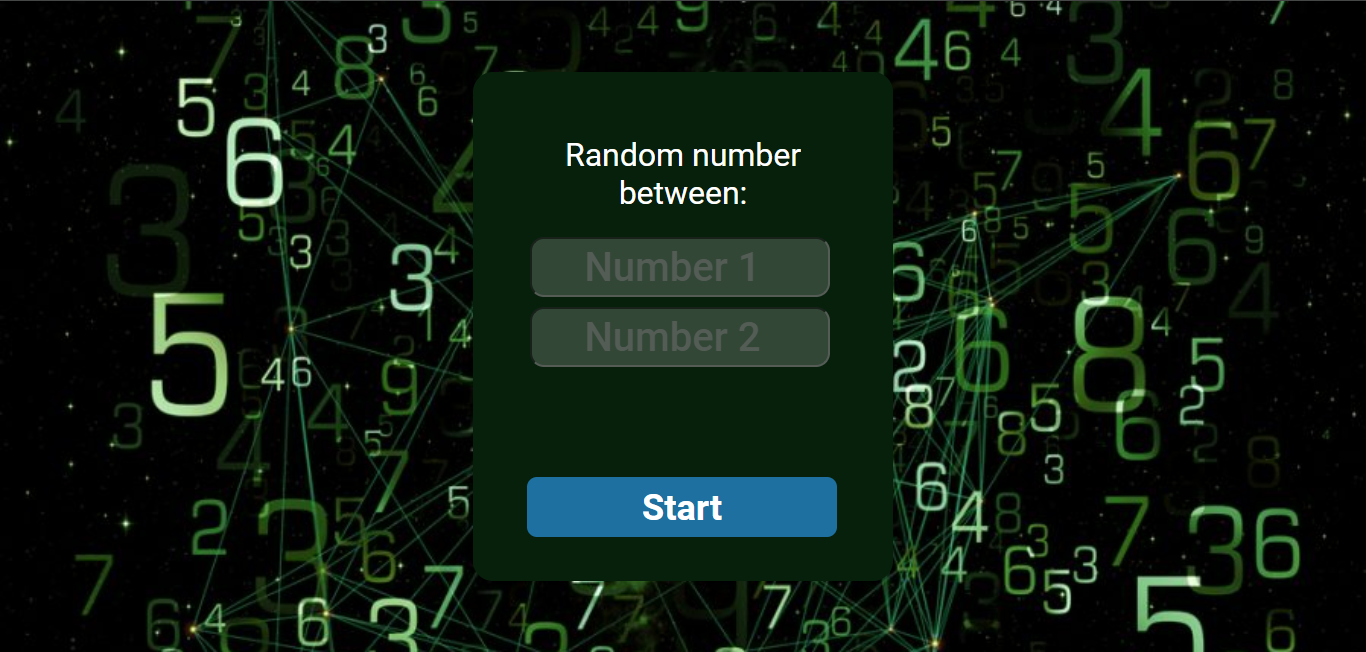
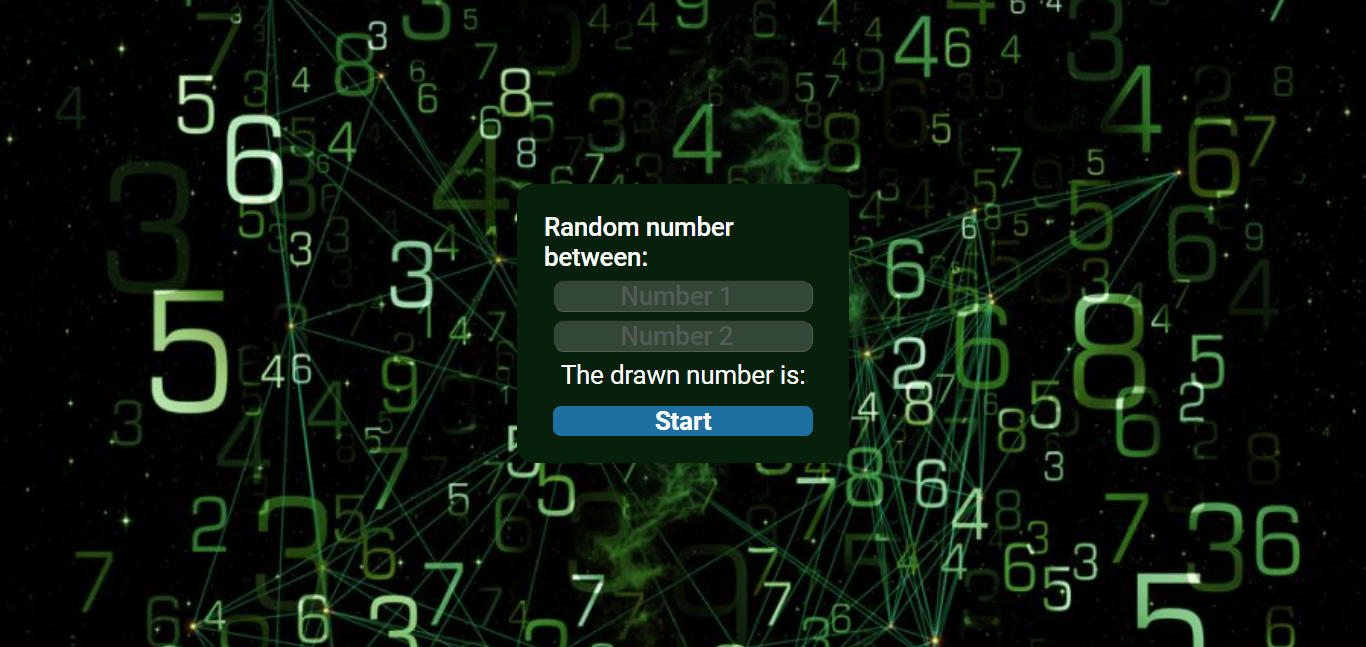
display-flex

diff --git a/styles.css b/styles.css
@@ -13,72 +13,56 @@ body {
     /* Evita a repetição da imagem */
     background-attachment: fixed;
     /* Fixa a imagem de fundo, impedindo que role com a página */
+    height: 100vh;
     display: flex;
-    align-items: center;
-    justify-content: center;
     flex-direction: column;
-    min-height: 100vh;
+    justify-content: center;
+    align-items: center;
+
 }
 
 main {
-    width: 420px;
     border-radius: 20px;
-    padding: 44px 24px;
-    display: block;
-    margin: 0 auto;
     background-color: #07200c;
+    display: flex;
+    flex-direction: column;
+    align-items: center;
+    padding: 2%;
+    gap: 10px;
+    width: 26em;
 }
 
 h1 {
-    font-size: normal;
-    font-weight: 400;
-    font-size: 32px;
-    line-height: 38px;
+    font-weight: 500;
     color: white;
-    text-align: center;
-    margin: 20px;
 }
 
 p {
-    height: 60px;
-    width: 300px;
-    font-weight: 500;
-    font-size: 40px;
-    margin: 5px 30px 5px;
-    text-align: center;
-    color: #1620a1;
+    font-weight: 400;
+    font-size: 2em;
+    color: white;
 }
 
 input {
     background: rgba(255, 255, 255, 0.25);
     border-radius: 14px;
-    height: 60px;
-    width: 300px;
     font-weight: 500;
-    font-size: 40px;
+    font-size: 2em;
     color: white;
     opacity: 0.7;
-    margin: 5px 33px;
     text-align: center;
-
-}
-
-.input-min {
-    margin-right: 62px;
+    width: 40vh;
 }
 
 button {
     background: #1d70a0;
     border-radius: 10px;
-    width: 310px;
-    height: 60px;
     color: white;
     font-weight: 700;
-    font-size: 36px;
+    font-size: 2em;
     border: none;
     cursor: pointer;
-    margin: 35px 30px 0px;
-    text-align: center;
+    width: 40vh
 }
 
 button:hover {

diff --git a/script.js b/script.js
@@ -1,15 +1,19 @@
-let p1 = document.querySelector('p')
+let p1 = document.querySelector('.p1')
 
-function generateNumber(){
-   
+function generateNumber() {
     const min = Math.ceil(document.querySelector(".input-min").value)
     const max = Math.floor(document.querySelector(".input-max").value)
 
-    if (max > min){
-        p1.innerHTML =`The drawn number is ${Math.floor(Math.random() * (max - min + 1)) + min}` ;
-    
-    }else {
-        alert("The minimum value must be LESS than the maximum value")
+    if (max > min) {
+        p1.innerHTML = Math.floor(Math.random() * (max - min + 1)) + min;
+        p1.style.color = "green";
     }
-
+    if (max === min) {
+        p1.innerHTML = "minimum number must be DIFFERENT from the maximum number";
+        p1.style.color = "yellow";
+    }
+    if (max < min) {
+        p1.innerHTML = "The minimum value must be LESS than the maximum value";
+        p1.style.color = "red";
+    }
 }

diff --git a/index.html b/index.html
@@ -16,11 +16,10 @@
         <h1>Random number between:</h1>
         <input placeholder="Number 1" class="input-min" type="number">
         <input placeholder="Number 2" class="input-max" type="number">
-        <p></p>
+        <p>The drawn number is:</p>
+        <p class="p1"></p>
         <button onclick="generateNumber()">Start</button>
     </main>
-
-
 </body>
 <script src="./script.js"></script>
 
